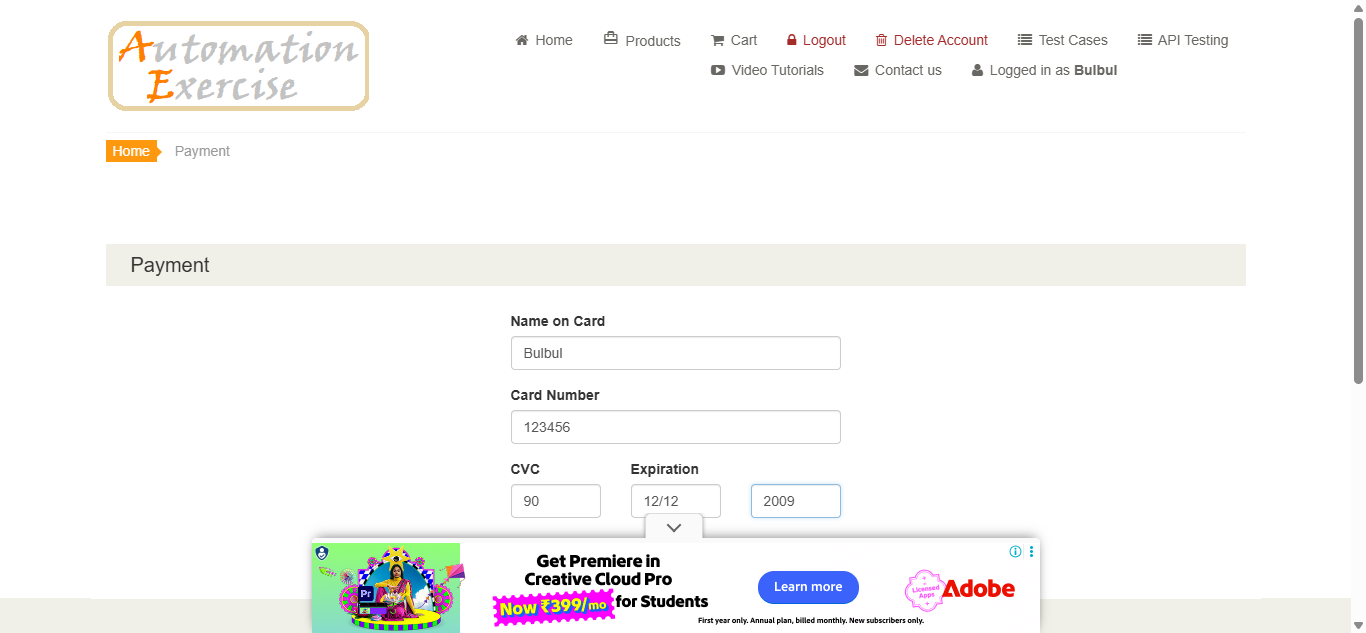
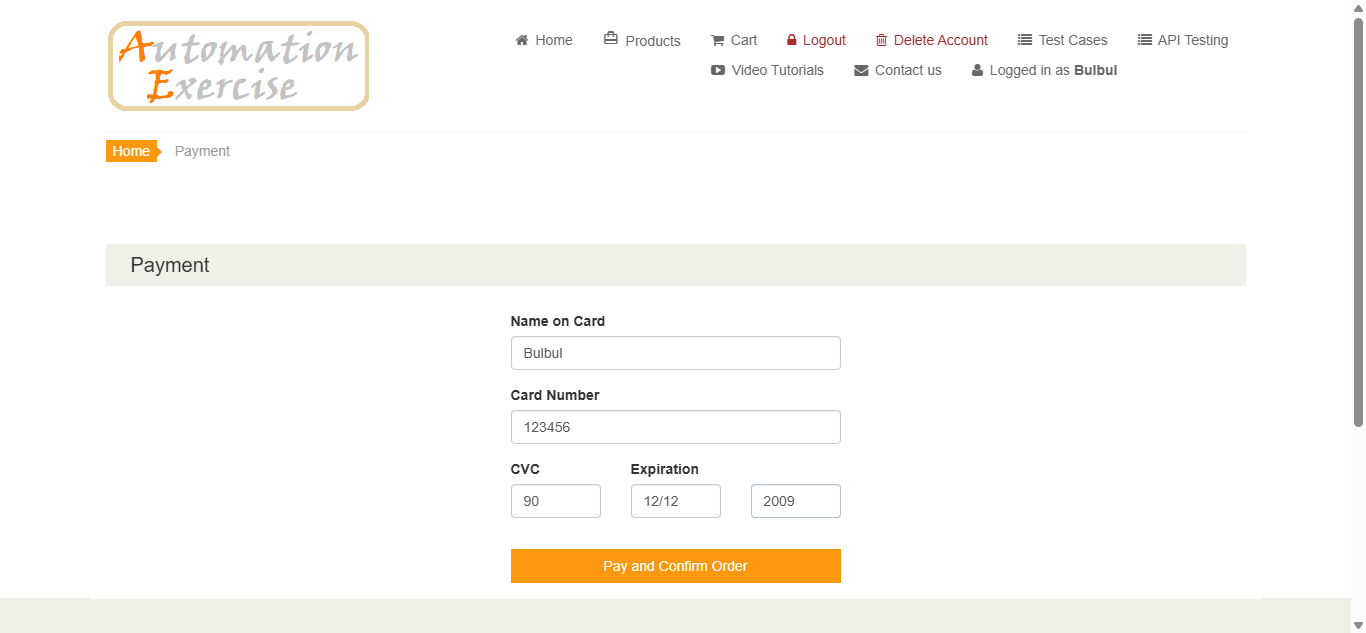
Saree product issue removed to test webhhooks

Changed region(s): [[0.2152, 0.8104, 0.7687, 1.0], [0.9839, 0.6003, 1.0, 0.6904]]

diff --git a/test/test_login.py b/test/test_login.py
@@ -31,11 +31,11 @@ def test_invalid_login(page):
     data["invalid_login"]["password"]
                      )
    
-def test_saree_product(login):
-    product= Products(login)
-    product.saree()
-    product.checkout()
-    product.payment()
+# def test_saree_product(login):
+#     product= Products(login)
+#     product.saree()
+#     product.checkout()
+#     product.payment()
 
 
 

diff --git a/conftest.py b/conftest.py
@@ -68,4 +68,4 @@ def pytest_runtest_makereport(item, call):
             page.screenshot(path=file_name)
 
             print(f"\nScreenshot saved at: {file_name}")
-
+            
